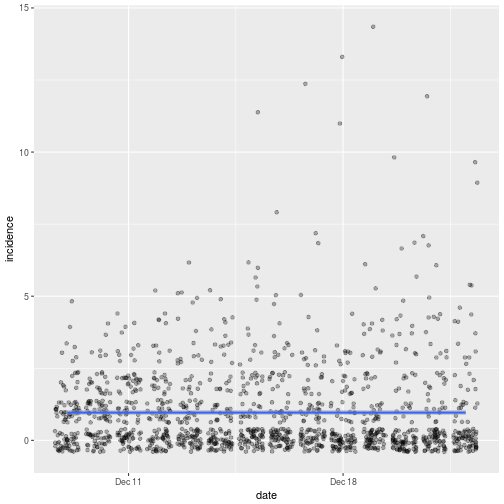
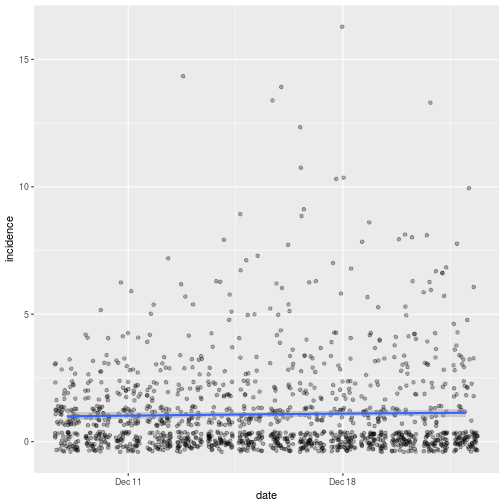
fixing readme

diff --git a/README.md b/README.md
@@ -149,6 +149,7 @@ We can now predict future incidence based on these data:
 
 ```r
 library(projections)
+set.seed(1)
 pred <- project(i, R = R_samp, si = si, n_days = 14)
 pred
 ```
@@ -161,11 +162,11 @@ pred
 ##   // 14 dates (rows); 100 simulations (columns)
 ## 
 ##  // first rows/columns:
-##       [,1] [,2] [,3] [,4] [,5] [,6]
-## 17509    1    1    1    0    0    1
-## 17510    1    0    2    3    0    0
-## 17511    1    0    1    2    0    2
-## 17512    2    0    1    2    0    1
+##            [,1] [,2] [,3] [,4] [,5] [,6]
+## 2017-12-09    1    0    0    2    1    0
+## 2017-12-10    2    0    0    1    0    3
+## 2017-12-11    1    0    0    2    0    3
+## 2017-12-12    5    0    0    2    0    0
 ##  .
 ##  .
 ##  .
@@ -187,10 +188,12 @@ apply(pred, 1, mean) # average prediction per day
 ```
 
 ```
-## 17509 17510 17511 17512 17513 17514 17515 17516 17517 17518 17519 17520 
-##  0.81  0.92  1.07  0.96  1.00  0.92  1.09  0.87  1.06  0.88  0.98  0.99 
-## 17521 17522 
-##  1.04  0.90
+## 2017-12-09 2017-12-10 2017-12-11 2017-12-12 2017-12-13 2017-12-14 
+##       0.81       0.92       1.05       0.99       1.06       1.04 
+## 2017-12-15 2017-12-16 2017-12-17 2017-12-18 2017-12-19 2017-12-20 
+##       1.01       1.36       1.21       1.24       0.95       1.08 
+## 2017-12-21 2017-12-22 
+##       1.28       0.99
 ```
 
 ```r
@@ -198,12 +201,15 @@ apply(pred, 1, range) # range across simulations
 ```
 
 ```
-##      17509 17510 17511 17512 17513 17514 17515 17516 17517 17518 17519
-## [1,]     0     0     0     0     0     0     0     0     0     0     0
-## [2,]     5     4     4     5     6     5    11     8    12    13    14
-##      17520 17521 17522
-## [1,]     0     0     0
-## [2,]    10    12    10
+##      2017-12-09 2017-12-10 2017-12-11 2017-12-12 2017-12-13 2017-12-14
+## [1,]          0          0          0          0          0          0
+## [2,]          3          5          6          7         14          8
+##      2017-12-15 2017-12-16 2017-12-17 2017-12-18 2017-12-19 2017-12-20
+## [1,]          0          0          0          0          0          0
+## [2,]          9         14         12         16          9          8
+##      2017-12-21 2017-12-22
+## [1,]          0          0
+## [2,]         13         10
 ```
 
 An alternative representation of the outcomes:
@@ -217,15 +223,16 @@ head(df)
 ```
 ##         date incidence sim
 ## 1 2017-12-09         1   1
-## 2 2017-12-10         1   1
+## 2 2017-12-10         2   1
 ## 3 2017-12-11         1   1
-## 4 2017-12-12         2   1
+## 4 2017-12-12         5   1
 ## 5 2017-12-13         5   1
-## 6 2017-12-14         2   1
+## 6 2017-12-14         5   1
 ```
 
 ```r
-ggplot(df, aes(x = date, y = incidence)) + geom_jitter(alpha = .3) + geom_smooth()
+p <- ggplot(df, aes(x = date, y = incidence)) + geom_jitter(alpha = .3) + geom_smooth()
+p
 ```
 
 ```
